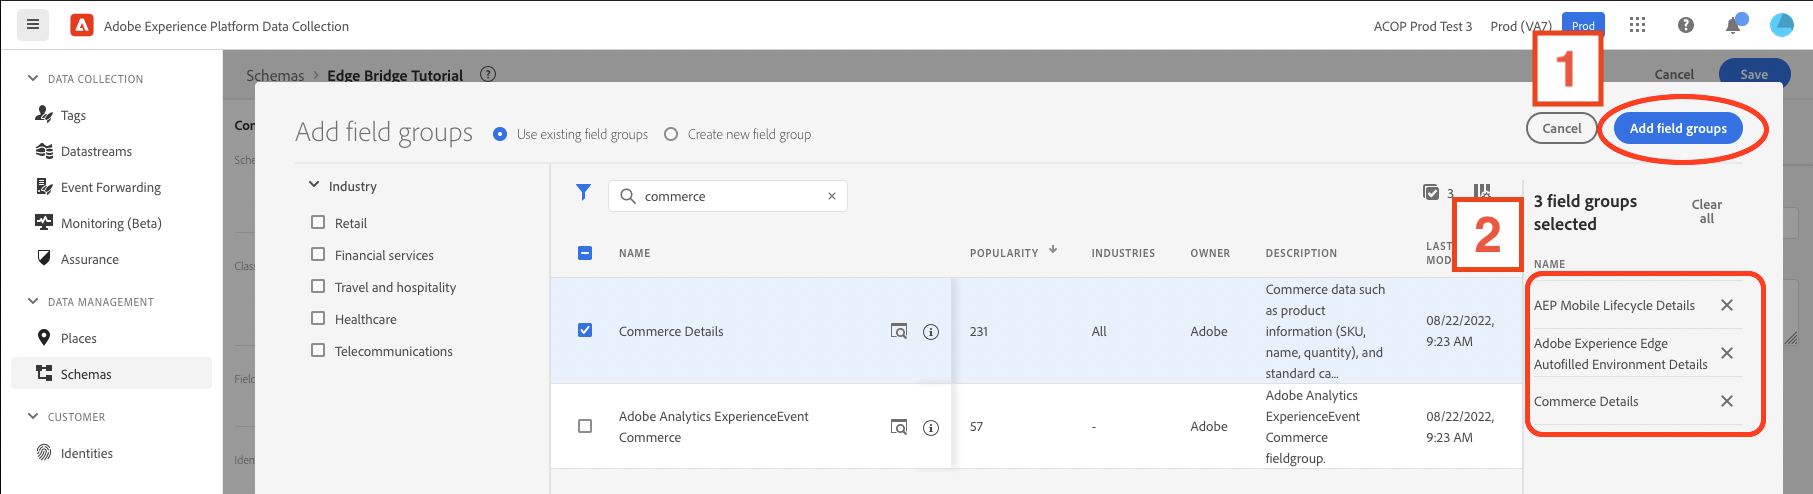
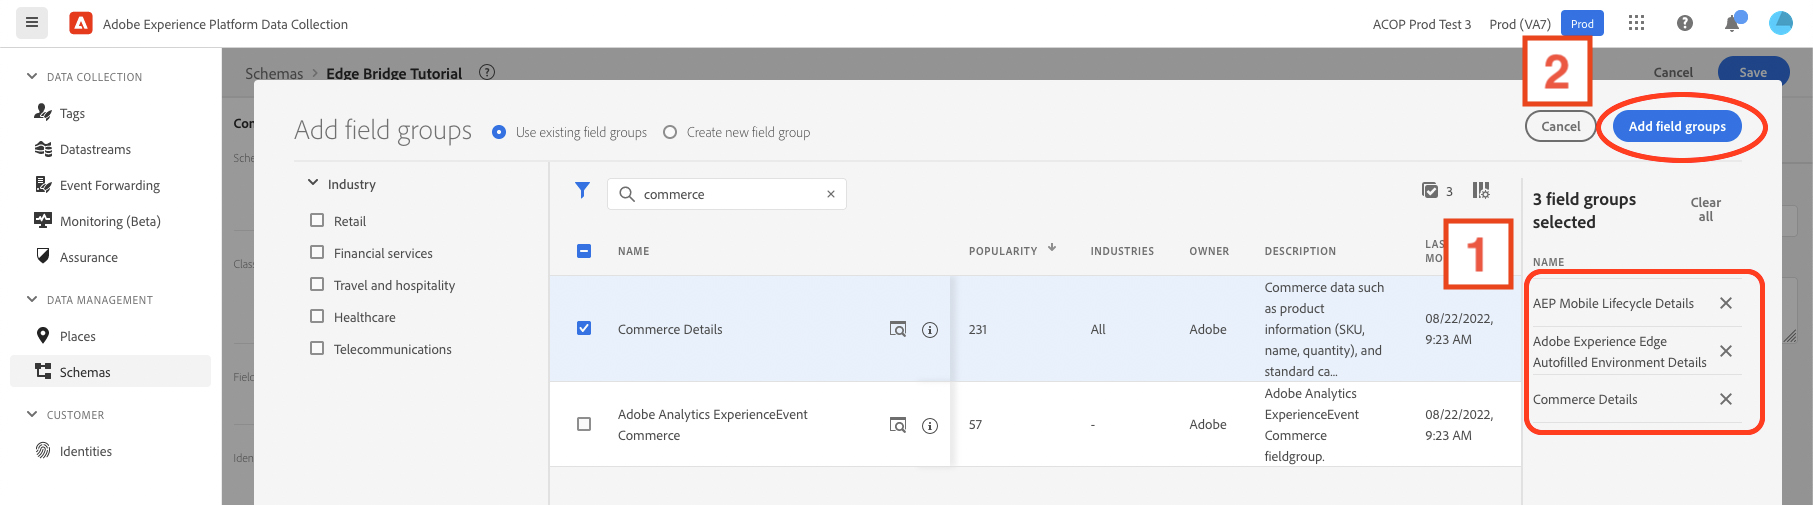
Update for datastream instructions

diff --git a/Documentation/tutorials/edge-bridge-tutorial.md b/Documentation/tutorials/edge-bridge-tutorial.md
@@ -323,14 +323,49 @@ You can use the search box (`1`) to look up the names (`2`) of the three field g
 
 </p></details>
 
-After adding all three required field groups, click `Add field groups`. All the field groups should be present in the right side info panel (`2`).
+Verify that all the required field groups are present in the right side info panel (`1`), then click `Add field groups` (`2`). 
 <img src="../assets/edge-bridge-tutorial/schema-field-group-3.png" alt="Add required field groups" width="1100"/>  
 
+Verify that the required field groups are present under the `Field groups` section (`1`) and the properties associated with those field groups are present under the `Structure` section (`2`), then click `Save` (`3`).
+<img src="../assets/edge-bridge-tutorial/schema-with-field-groups.png" alt="Schema with required field groups" width="1100"/>  
 
+<details>
+  <summary> Hints for using the schema creator tool </summary><p>
 
-2. [Create a datastream](https://experienceleague.adobe.com/docs/platform-learn/implement-mobile-sdk/initial-configuration/create-datastream.html)
+To quickly see what properties are from a given field group, click the field group under the `Field groups` section (`1`). The properties are highlighted in the `Structure` section (`2`).
+
+<img src="../assets/edge-bridge-tutorial/schema-tool-selection.png" alt="Schema tool selecting a field group example" width="1100"/>  
+
+To see only the properties from a given field group, click the selection box next to the field group (`1`). The properties are filtered to only the selected field group in the `Structure` section (`2`).
+
+<img src="../assets/edge-bridge-tutorial/schema-tool-filtering.png" alt="Schema tool filtering on a field group example" width="1100"/>  
+
+</p></details>
+
+### 2. Create a datastream
+
+<details>
+  <summary> What is a datastream? </summary><p>
+
+A datastream is a server-side configuration on Platform Edge Network. Datastreams ensure that incoming data is routed to Adobe Experience Cloud applications and services (like Analytics) appropriately. For more information, see the [datastreams documentation](https://experienceleague.adobe.com/docs/experience-platform/edge/datastreams/overview.html?lang=en) or this [video](https://experienceleague.adobe.com/docs/platform-learn/data-collection/edge-network/configure-datastreams.html?lang=en).
+
+</p></details>
+
+Click `Datastreams` under `DATA COLLECTION` in the left side navigation panel.
+
+<img src="../assets/edge-bridge-tutorial/datastreams-navigation.png" alt="Datastream in Data Collection Navigation" width="1100"/>  
+
+Click `New Datastream` in the top right.
+
+<img src="../assets/edge-bridge-tutorial/datastreams-main-view.png" alt="Create new datastream" width="1100"/>  
+
+Give the datastream an identifying name and description (`1`), then pick the schema created in the previous section using the dropdown menu (`2`). Then click `Save and Add Mapping` (`3`).
+
+<img src="../assets/edge-bridge-tutorial/datastreams-new-datastream.png" alt="Set datastream values" width="1100"/>  
+
 
 See the guide on [data prep mapping](map-track-data-using-data-prep.md)
+
 Copy data blob from Assurance (hint on copy from logs)  
 1. Click the Event which has the data payload you want to map to XDM
 2. On the right side details window, click the Raw Event dropdown to see the raw event data
